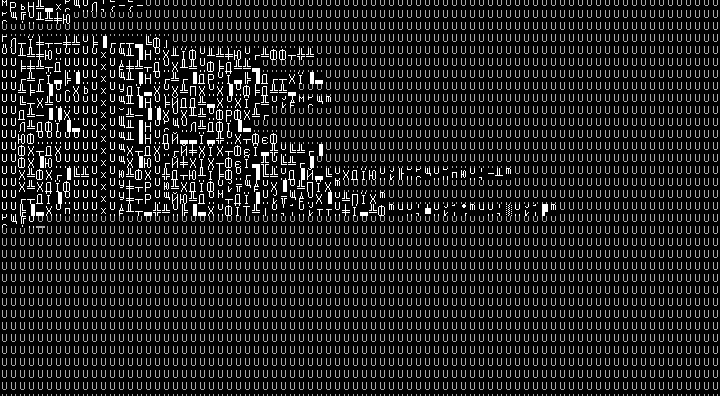
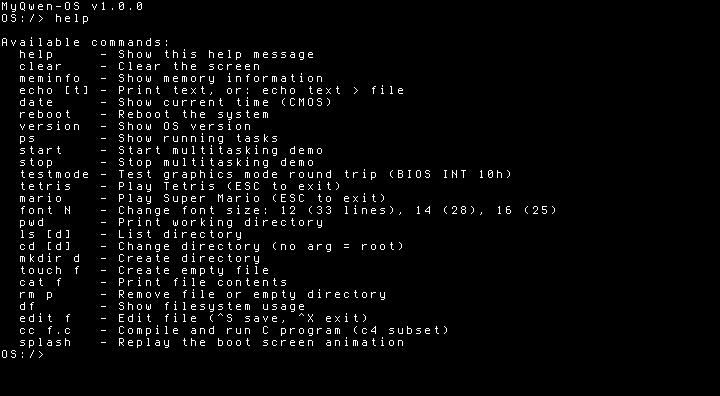
fix(font): 平面 2 字形按 32 字节步长写入 (屏幕乱码真正根因)
VGA 字符发生器按每字形 32 字节步长取字形 (plane2[ch*32+row], 见 QEMU
vga_draw_glyph9 的 font_ptr += 32*4*ch), 旧代码按连续 16 字节布局写入
→ 屏幕渲染出 ch*2 号字形, 全屏乱码。写入与自测统一改 32 字节步长。

为什么之前没发现: 文本缓冲区始终正确 (140 项测试全查缓冲区, 失明);
平面 2 自测与写入布局一致 (自洽, 永远 OK); 历史截图本身乱码。

定位方法: 渲染级 OCR (font16.h 模板匹配 screendump 像素) → 渲染字形
= 2× 索引 → 对照 QEMU 源码确认步长。三档字号 + 开机画面验证 0 不匹配。

重拍 note/ 截图 9 张 (README 截图廊 + 字体/抢占记录引用)。

Changed region(s): [[0.0, 0.0, 1.0, 1.0]]

diff --git a/kernel/font.c b/kernel/font.c
@@ -85,10 +85,16 @@ static void font_write_plane2(const uint8_t* tbl, uint8_t h) {
     // SR2: Map Mask = 0x04 (只写平面 2)
     outb(0x3C4, 2); outb(0x3C5, 0x04);
 
-    // 写字体: 256 字形 × h 字节, 逐字节写到 A0000 窗口 (平面 2 偏移 0)
+    // 写字体: 256 字形, VGA 字符发生器按【每字形 32 字节】步长取
+    // (QEMU vga_draw_glyph9: font_ptr += 32*4*ch, 行 y 读 +4*y —
+    // 即平面 2 内 ch*32 + row)。连续写会在屏幕上渲染出 ch*2 的字形
+    // (屏幕乱码根因): 平面 2 读回自测与写入布局一致所以永远 OK。
     volatile uint8_t* plane2 = (volatile uint8_t*)0xA0000;
-    for (int i = 0; i < 256 * h; i++) {
-        plane2[i] = tbl[i];
+    for (int i = 0; i < 256 * 32; i++) plane2[i] = 0;   // 先清零整个 8K
+    for (int ch = 0; ch < 256; ch++) {
+        for (int row = 0; row < h; row++) {
+            plane2[ch * 32 + row] = tbl[ch * h + row];
+        }
     }
 
     // 恢复现场
@@ -134,20 +140,23 @@ static int font_selftest(const uint8_t* tbl, uint8_t h) {
     outb(0x3CE, 6); outb(0x3CF, (gr6 & ~(0x0C | 0x02)) | 0x04);
 
     volatile uint8_t* plane2 = (volatile uint8_t*)0xA0000;
-    int n = 256 * h;
     int bad = 0;
     int first_bad = -1;
-    for (int i = 0; i < n; i++) {
-        if (plane2[i] != tbl[i]) {
-            if (first_bad < 0) first_bad = i;
-            bad++;
+    for (int ch = 0; ch < 256; ch++) {
+        for (int row = 0; row < h; row++) {
+            uint8_t got = plane2[ch * 32 + row];      // 32 字节步长 (与写入/取址一致)
+            uint8_t exp = tbl[ch * h + row];
+            if (got != exp) {
+                if (first_bad < 0) first_bad = ch * h + row;
+                bad++;
+            }
         }
     }
     if (bad > 0) {
         // 诊断: 第一个不匹配字节 + 平面 2 开头 8 字节 vs 期望
         serial_puts(" first_bad="); serial_put_hex(first_bad);
         serial_puts(" exp=");        serial_put_hex(tbl[first_bad]);
-        serial_puts(" got=");        serial_put_hex(plane2[first_bad]);
+        serial_puts(" got=");        serial_put_hex(plane2[(first_bad / h) * 32 + (first_bad % h)]);
         for (int i = 0; i < 4; i++) {
             serial_puts(i == 0 ? " p2[0..3]=" : ",");
             serial_put_hex(plane2[i]);

diff --git a/note/字体字号开发记录.md b/note/字体字号开发记录.md
@@ -6,9 +6,9 @@
 
 **SeaVGABIOS 没实现 INT 10h AX=1100h**（加载用户字体）：实测调用后平面 2 内容不变、CRTC 不重配、scanline 纹丝不动。改由内核直接编程 VGA：
 
-- **写字体**（`font_write_plane2`）：SR4 bit2=1 关 odd/even 奇偶限制、GR5 写模式 0 + bit4=0、GR6 map=A0000 + bit1=0、SR2 Map Mask=0x04，然后逐字节写 0xA0000。**写模式 0 能直写数据的前提是 GR1 (Enable Set/Reset)=0**（文本模式默认）——GR1=0 时 set/reset 完全禁用，CPU 字节原样进平面。
+- **写字体**（`font_write_plane2`）：SR4 bit2=1 关 odd/even 奇偶限制、GR5 写模式 0 + bit4=0、GR6 map=A0000 + bit1=0、SR2 Map Mask=0x04，然后写 0xA0000。**写模式 0 能直写数据的前提是 GR1 (Enable Set/Reset)=0**（文本模式默认）——GR1=0 时 set/reset 完全禁用，CPU 字节原样进平面。**★布局：每字形 32 字节步长**（`plane2[ch*32+row]`，先清零 8K 再写 h 行数据）——VGA 字符发生器取字形地址就是 ch*32+行号（QEMU `vga_draw_glyph9`: `font_ptr += 32*4*ch`，行循环 `+4`）。初版按连续 16 字节写，渲染出的字形 = 表内 `ch*2` 号字形，全屏乱码（见坑 4）。
 - **CRTC 重配**（`font_set_crtc`）：CR09=h-1（行高）、CR12+CR07 bit1/bit6=rows*h-1（垂直显示结束）、CR0A/0B=h-2/h-1（光标）、CR14=h-1（下划线）。帧时序不动，换行高只是 400 线活动区里装 25/28/33 行。
-- **自测**（`font_selftest`）：GR4 Read Map=2 从 A0000 读回平面 2 与源数据逐字节比对 + 读 CRTC 验证。串口报 `[FONT] height=.. mismatch=.. scanline=.. vde=.. OK`。
+- **自测**（`font_selftest`）：GR4 Read Map=2 从 A0000 按**同样的 32 字节步长**读回平面 2 与源数据逐字节比对 + 读 CRTC 验证。串口报 `[FONT] height=.. mismatch=.. scanline=.. vde=.. OK`。**教训：自测只保证"写入布局 == 读回布局"，布局本身错了它照样 OK（坑 4）——必须再加一道"渲染级"校验：截屏 + 字体模板 OCR 对比屏幕像素（本次用的方法）。**
 
 **★VGA 索引寄存器陷阱（本里程碑最大坑）**：0x3C4/0x3CE 是粘性索引——每次写数据口（0x3C5/0x3CF）前必须重新选中目标索引。漏选时数据写进上一个索引的寄存器，症状是"读写结果完全不对但寄存器值看起来合理"。
 
@@ -22,7 +22,7 @@
 1. **跳板不保存 EBP/EBX/ESI/EDI** → SeaVGABIOS 处理 INT 10h 时短暂进 32 位保护模式随意用这些寄存器，返回后 C 函数经 `[ebp+N]` 访问局部变量 → 野指针（实测 font_apply 里 idiv 读到 h=0 → #DE → 三重故障复位循环，串口反复 "Paging ENABLED"）。旧代码没炸纯属运气（调用点从不访问局部变量）。**修复：rm_entry.asm 存/跳板 .flush 恢复 + cld**（DF 也可能被 BIOS 弄脏）。定位方法：QEMU `-d int -D log` 第一条异常 `v=00 e=0000 EAX=400` → objdump 找到 idiv。
 2. **testmode 的"按任意键"等待**把回车释放码当"任意键"提前返回 → 真按键的按下码经 IRQ1 流进 shell 输入缓冲污染下一条命令（"font 12" 变 "afont 12"）。**修复：只接受按下码 (<0x80) + 等待后 kbd_drain() 再排空**。深层机制：触发命令的回车处理器还没 EOI，真按键的 IRQ1 在 PIC 挂起，轮询吃掉字节后 EOI 重投递 IRQ1，处理器读到**重复投递的按下码**（键盘打点实测 0x1E 出现两次）。
 3. **mario 标题画面 "PRESS ANY KEY"**：ESC 也是"开始游戏"不是退出——测试流程必须 spc 进游戏再 ESC（非 bug，测试踩坑记录在案）。
-4. **★font 切换后屏幕乱码、自测"时对时错"（间歇性，2026-11-01 定位）**：根因是 `kernel/irq.asm` 发 EOI 的 `mov al, 0x20` 本身——IRQ 处理器 `popa` 恢复现场之后才发 EOI，这个 mov 把**被中断上下文的 EAX 低字节**砸成 0x20。`font` 命令跑在 IRQ1 处理器内部（IF=1），期间 IRQ0 定时滴答不断嵌套，每次嵌套都可能砸中 EAX——字体写入循环的计数器、`font_selftest` 的返回值正好在 EAX 里，被砸一次就写错一处 → 屏幕乱码。间歇性来自编译器把哪个变量放 EAX + 滴答落在哪条指令之间。定位过程：先加 81 行插桩怀疑"IRQ0 嵌套踩 font_apply 栈"（方向对、真凶不是它），后缩小到 EOI 指令本身。**修复：两个 handler 的 EOI 都用 `push eax`/`pop eax` 包住**（栈平衡不变、iret 位置不变）。
+4. **★font 切换/开机后屏幕持续乱码（2026-11-02 定位，真正根因）**：字体按连续 16 字节/字形写入平面 2，但 VGA 字符发生器按 **32 字节步长**取字形（`plane2[ch*32+row]`，QEMU 11.1.2 `vga_draw_glyph9` 实测/源码确认）→ 渲染出的字形 = 表内 `ch*2` 号字形，全屏乱码（'M' 0x4D 渲染成 0x9A）。**为什么一直没被发现**：① 文本缓冲区（0xB8000）内容永远正确，140 项测试全查缓冲区/串口，失明；② 平面 2 自测是自洽的——写入布局和读回布局都是连续布局，永远 OK；③ 历史截图本身就是乱码的，只验证了尺寸没验证字形。**定位方法**：QEMU monitor 读 0xB8000 确认缓冲区干净 → 排除逻辑层；screendump + 用 font16.h 字形做模板匹配 OCR 屏幕像素 → 发现渲染字形 = 2× 索引 → 对照 QEMU 源码 `vga_draw_glyph9` 的 `font_ptr += 32*4*ch` 确认步长。**修复：写入与自测都改 32 字节步长**（先清零 8K，每字形只写 h 行数据）。验证：12/14/16 三档字号 + 开机画面渲染级 OCR 全部 0 不匹配。（注：此前误以为 EOI 砸 EAX 是乱码根因——那是个真 bug 也会造成间歇性自测值错乱，但不是屏幕上持续乱码的原因，见抢占记录坑 3。）
 
 ## 字体数据来源
 
